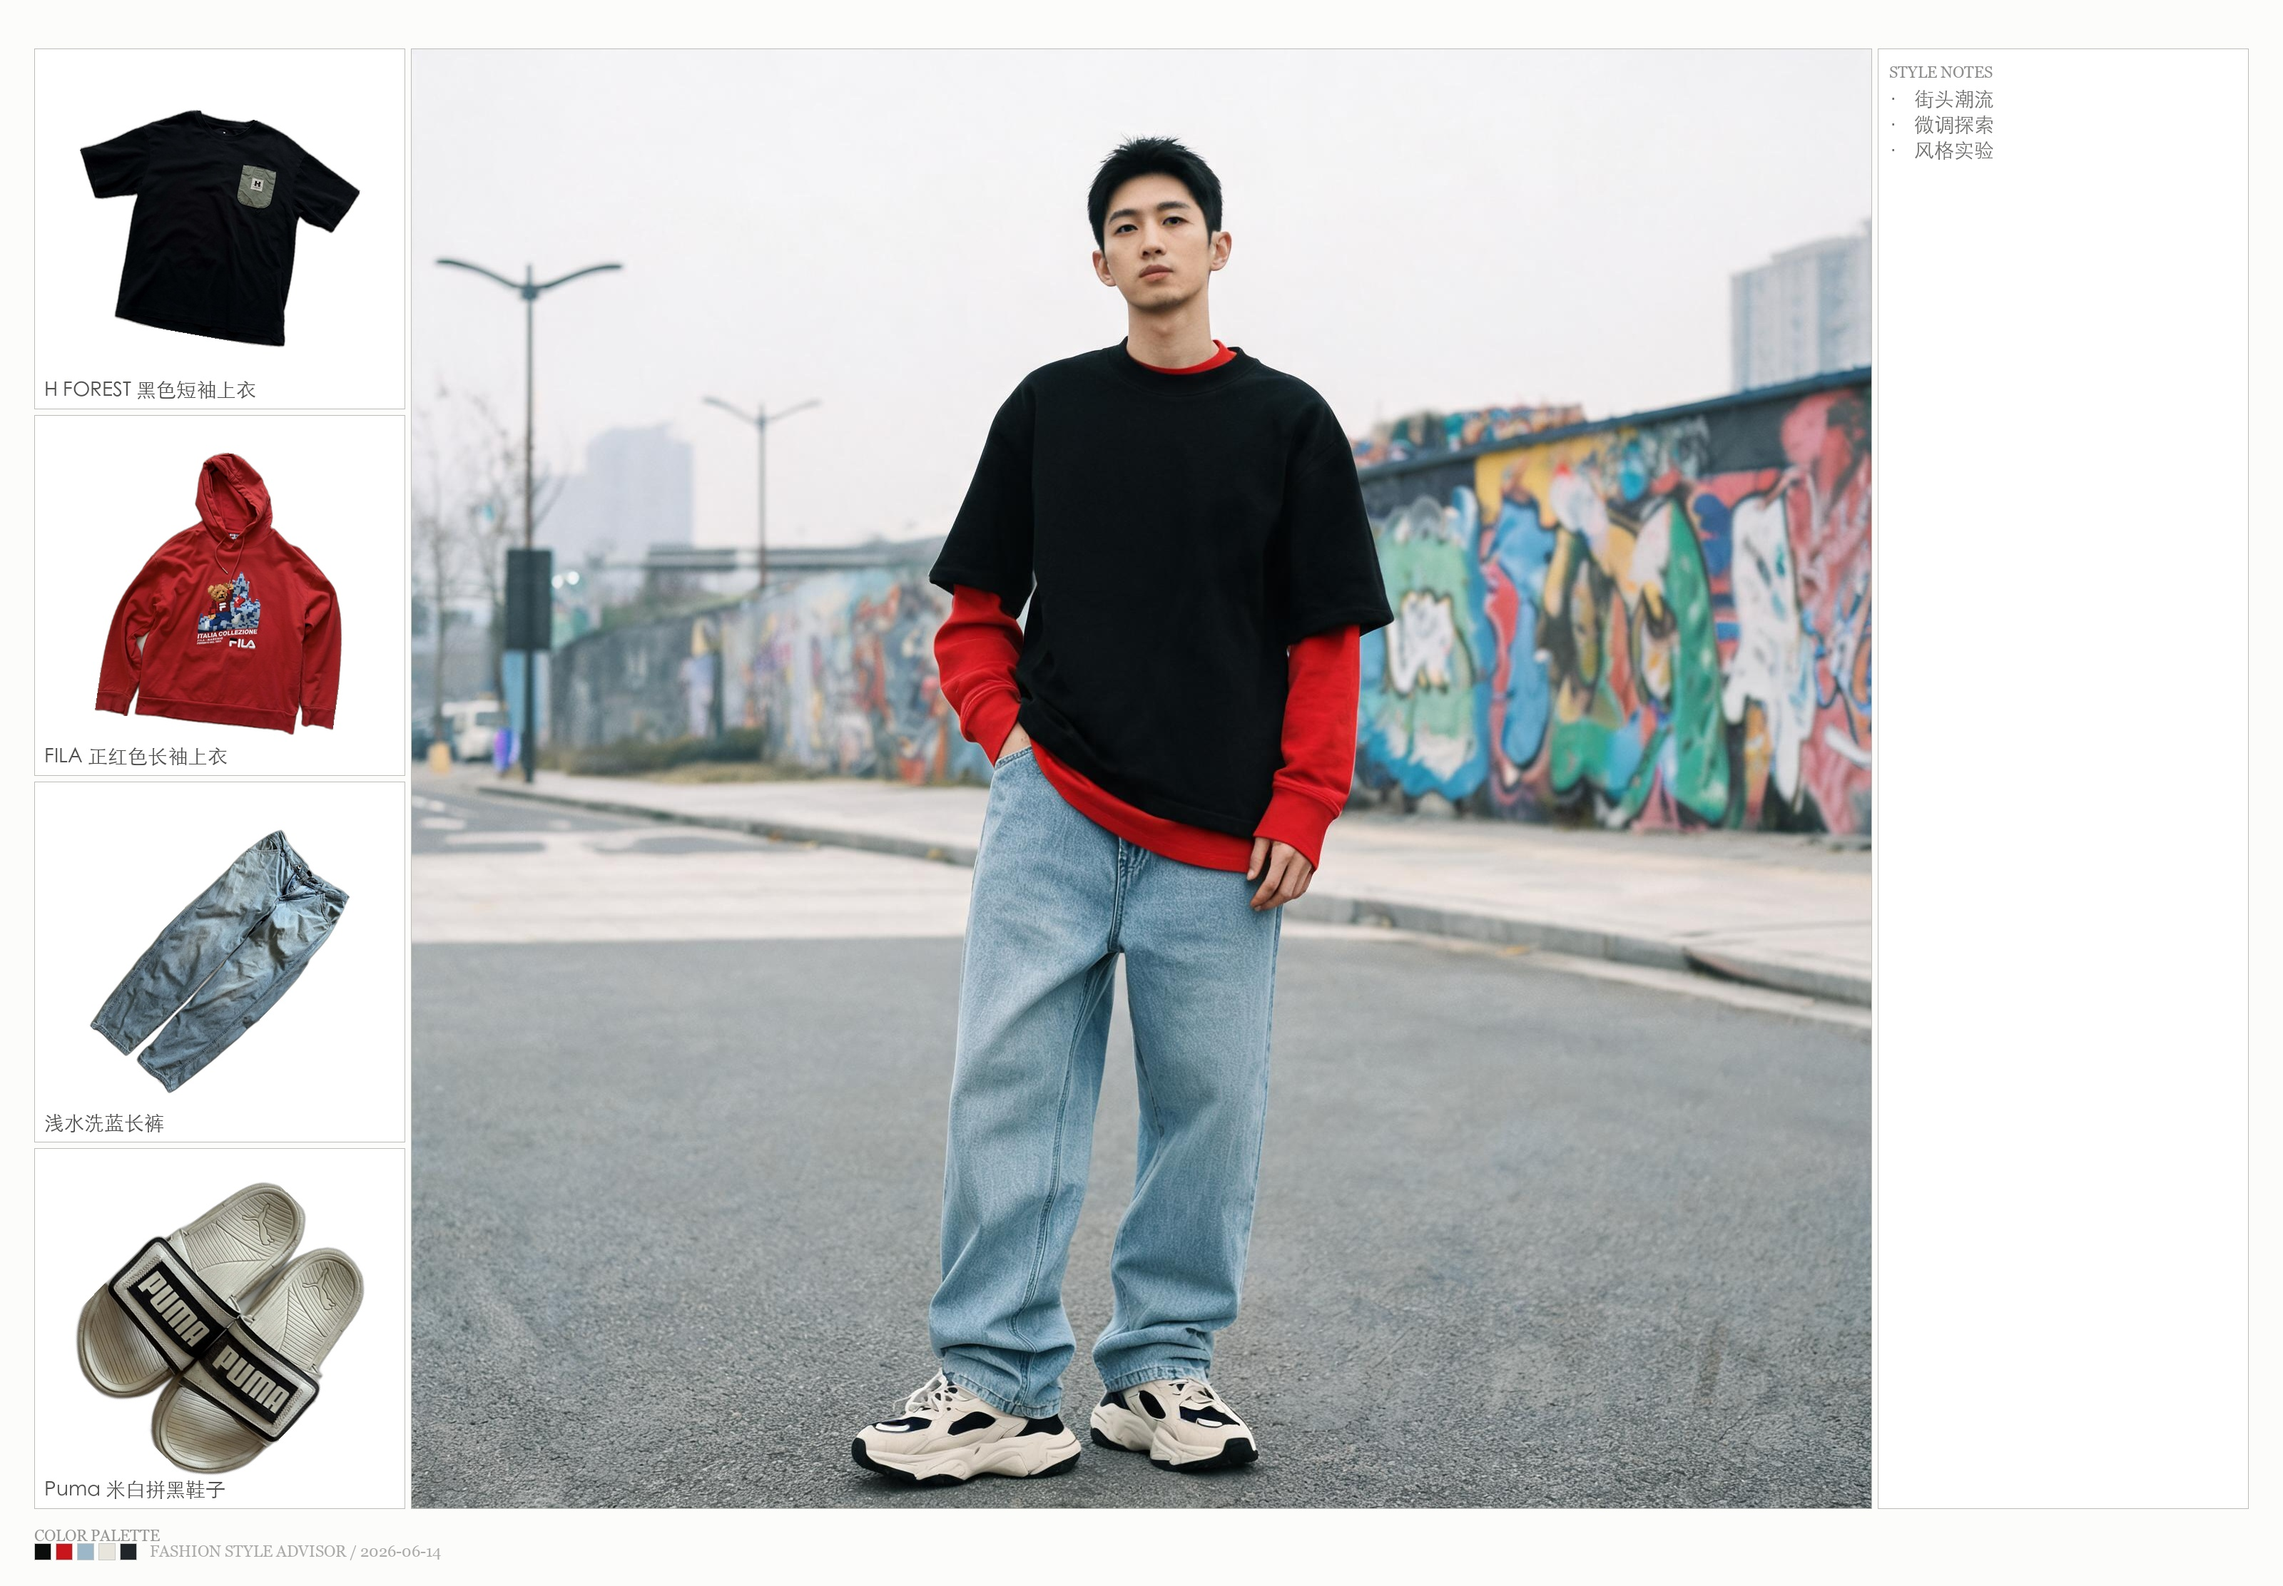
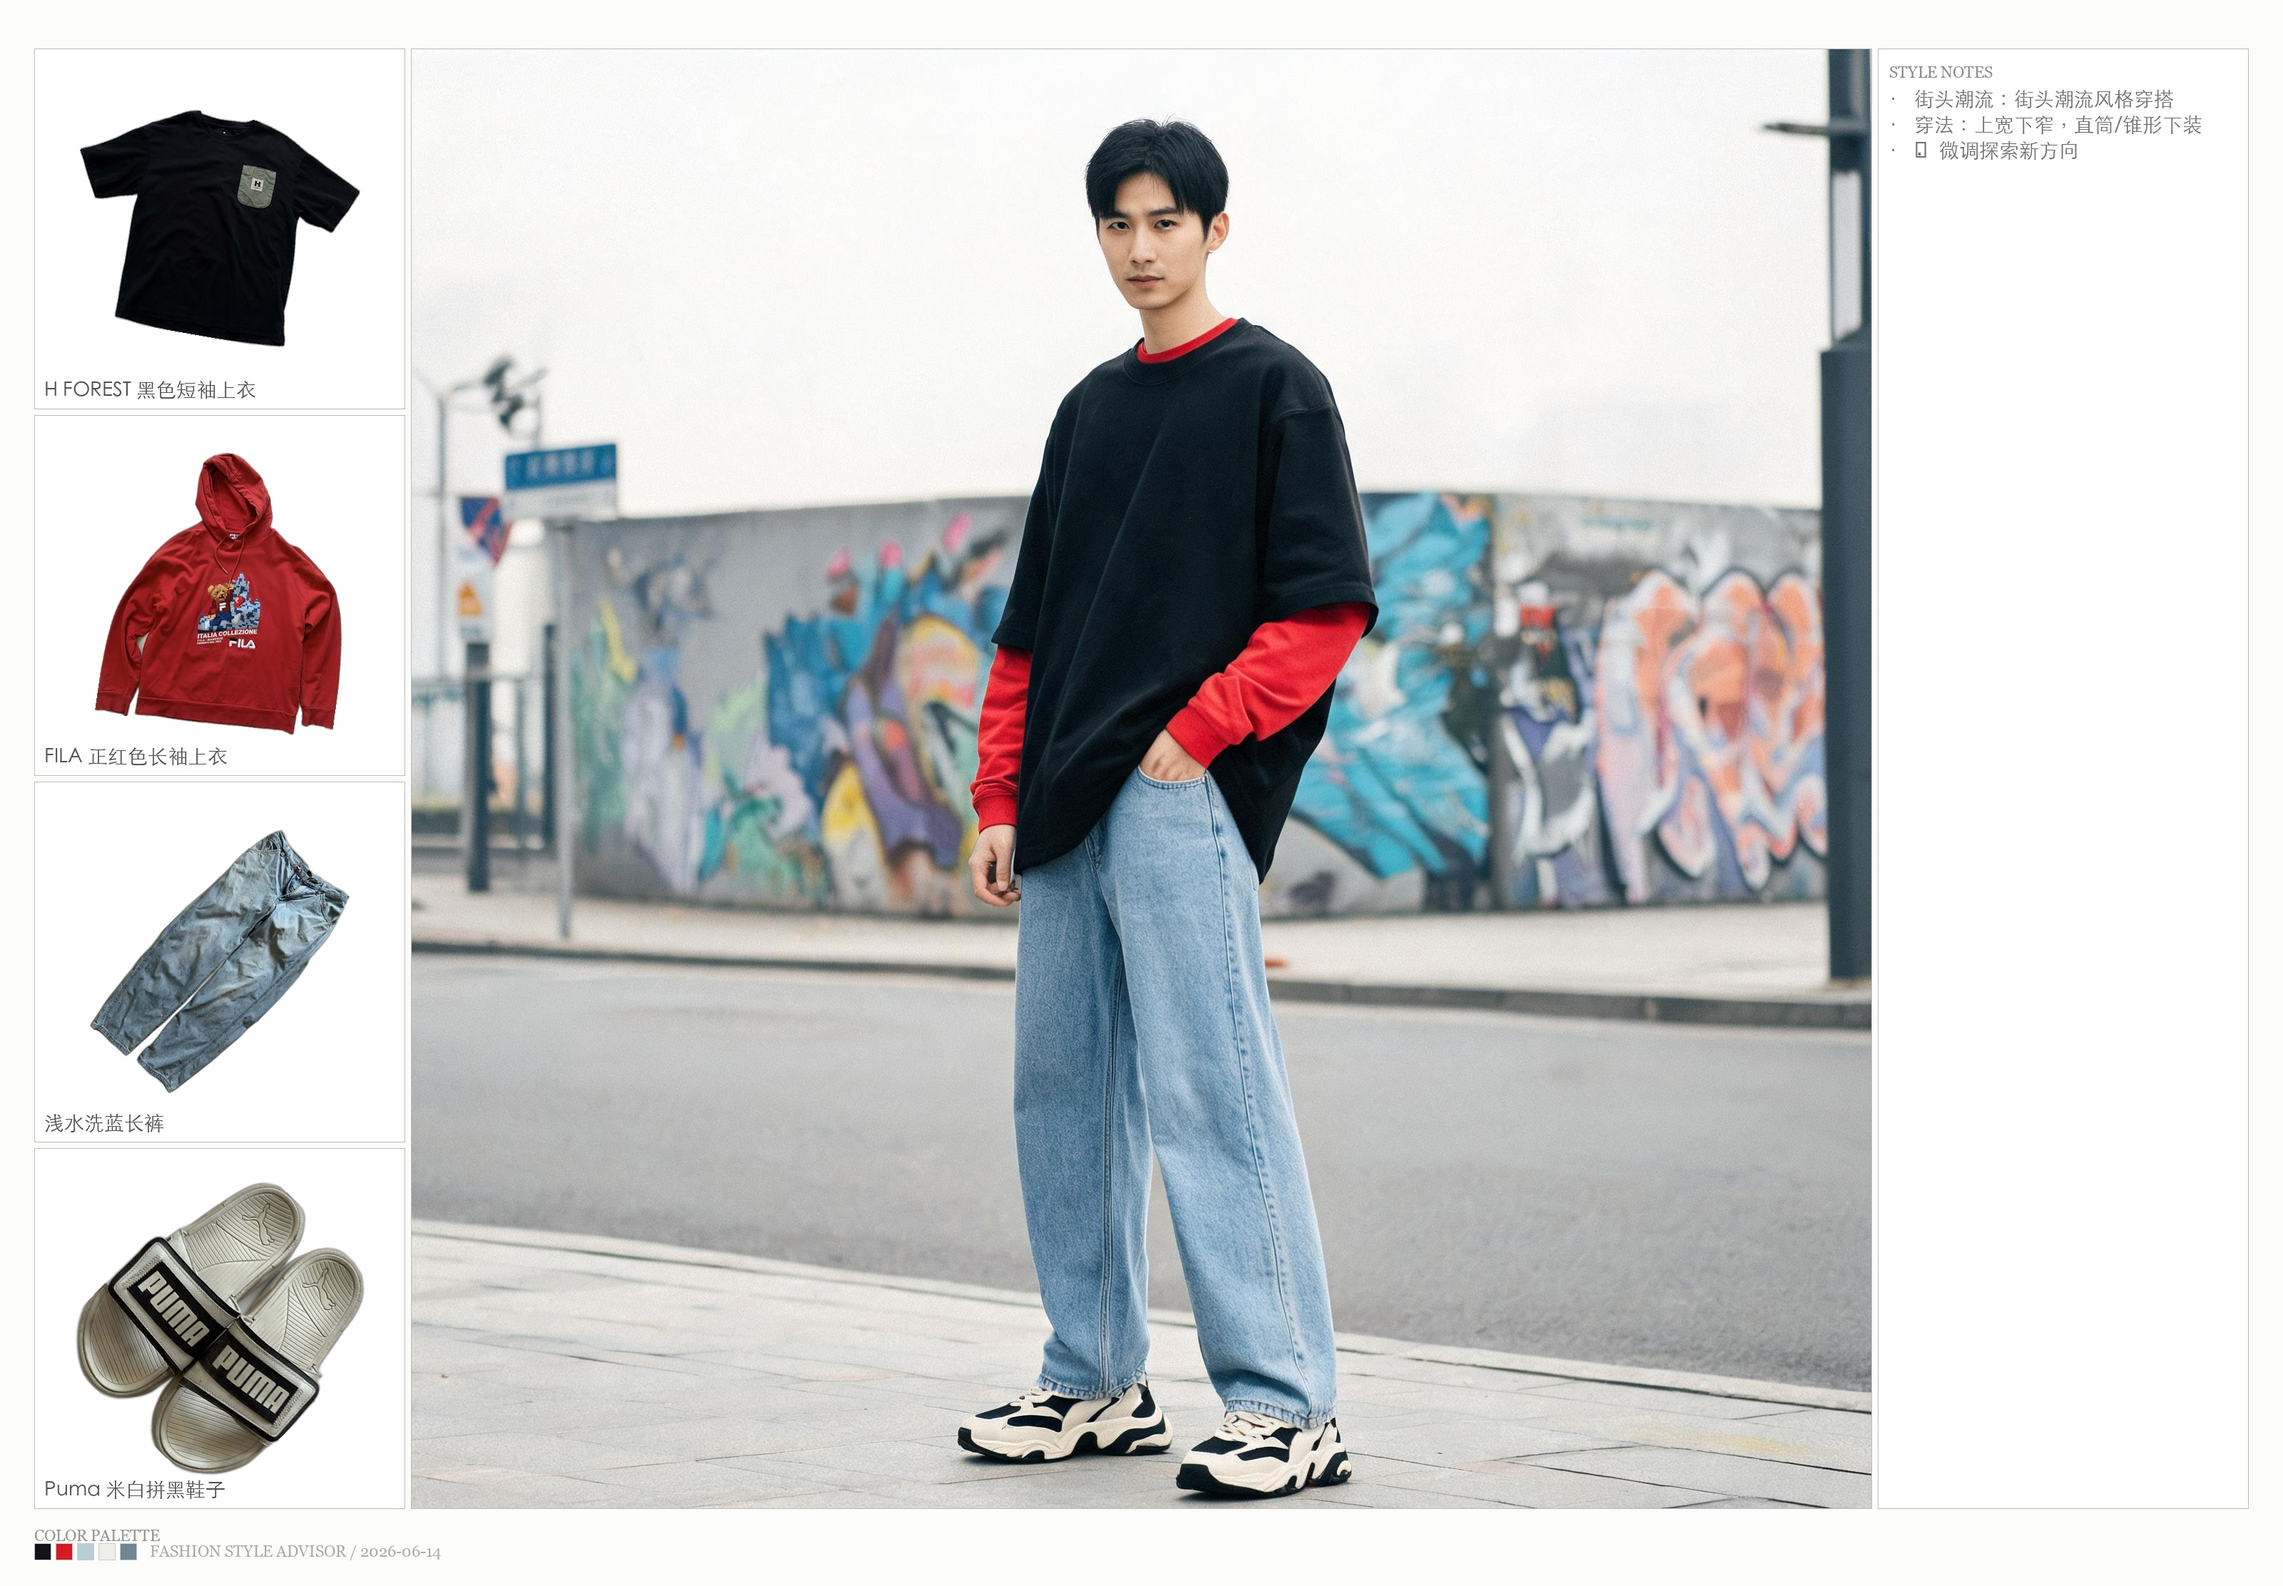
🧪 B线探索: 街头潮流 (2026-06-14)

diff --git a/tools/composite_v2.py b/tools/composite_v2.py
@@ -107,50 +107,81 @@ def find_img(dd,item):
         if os.path.exists(p): return p
 
 def parse_style_info(outfit_dir):
-    """从outfit.md提取风格关键词"""
+    """从outfit.md提取风格笔记（每行一条，用于 STYLE NOTES）"""
     md=os.path.join(outfit_dir,'outfit.md')
     if not os.path.exists(md): return []
     with open(md,encoding='utf-8') as f: text=f.read()
-    keywords=[]
+    lines=text.split('\n')
+    notes=[]
 
-    # 策略1：优先匹配 "## 风格关键词" 小节内容
-    in_kw_section = False
-    for line in text.split('\n'):
-        if '风格关键词' in line:
-            in_kw_section = True
-            # 同行冒号后的内容
-            m = re.search(r'[：:]\s*(.+)', line)
-            if m:
-                for kw in re.split(r'[、,，/]', m.group(1)):
-                    kw = kw.strip().replace('**', '')
-                    if kw and len(kw) < 20:
-                        keywords.append(kw)
-            continue
-        if in_kw_section:
-            if line.strip().startswith('##') or line.strip().startswith('---'):
-                break
-            s = line.strip().lstrip('- ').strip()
-            if s:
-                for kw in re.split(r'[、,，/]', s):
-                    kw = kw.strip().replace('**', '')
-                    if kw and len(kw) < 20:
-                        keywords.append(kw)
-
-    # 策略2：回退——从 "风格" 元数据行提取（去括号）
-    if not keywords:
-        for line in text.split('\n'):
-            if '风格' in line and '风格关键词' not in line and '风格故事' not in line:
+    # 策略1：读取 "## 风格笔记" 或 "## 风格关键词" 小节（每行一条笔记）
+    for section_tag in ['风格笔记', '风格关键词']:
+        in_section = False
+        for line in lines:
+            if section_tag in line:
+                in_section = True
+                # 同行冒号后的内容作为第一条
                 m = re.search(r'[：:]\s*(.+)', line)
                 if m:
-                    val = m.group(1)
-                    val = re.sub(r'[（(][^）)]*[）)]', '', val).strip()
-                    for kw in re.split(r'[、,，/]', val):
-                        kw = kw.strip().replace('**', '')
-                        if kw and len(kw) < 20:
-                            keywords.append(kw)
+                    v = m.group(1).strip().replace('**', '')
+                    if v and len(v) <= 30:
+                        notes.append(v)
+                continue
+            if in_section:
+                if line.strip().startswith('##') or line.strip().startswith('---'):
                     break
+                s = line.strip().lstrip('- ').strip()
+                if s and len(s) <= 30:
+                    notes.append(s)
+        if notes:
+            return notes[:5]
 
-    return keywords[:5]
+    # 策略2：回退——从元数据组装
+    # 提取风格名
+    style_name = ''
+    for line in lines:
+        if '风格' in line and '关键词' not in line and '故事' not in line and '笔记' not in line:
+            m = re.search(r'[：:]\s*(.+)', line)
+            if m:
+                style_name = re.sub(r'[（(][^）)]*[）)]', '', m.group(1)).strip()
+                break
+
+    # 提取天气/场景
+    weather = ''
+    occasion = ''
+    for line in lines:
+        if '天气' in line:
+            m = re.search(r'[：:]\s*(.+)', line)
+            if m: weather = m.group(1).strip()[:20]
+        if '场景' in line or '场合' in line:
+            m = re.search(r'[：:]\s*(.+)', line)
+            if m: occasion = m.group(1).strip()[:20]
+
+    if style_name:
+        notes.append(f'{style_name}风格')
+    if weather:
+        notes.append(f'适合{weather}')
+    if occasion:
+        notes.append(f'{occasion}穿搭')
+
+    # 从单品表格提取关键单品名
+    item_names = []
+    in_table = False
+    for line in lines:
+        if '单品清单' in line:
+            in_table = True; continue
+        if in_table and (line.startswith('##') or line.startswith('---')):
+            break
+        if in_table and line.startswith('|') and '---' not in line:
+            cells = [c.strip().replace('**', '') for c in line.split('|')]
+            if len(cells) >= 4:
+                name = cells[3]
+                if name and name not in ('单品', '名称', '') and len(name) < 15:
+                    item_names.append(name)
+    if item_names:
+        notes.append(f'核心单品：{"、".join(item_names[:3])}')
+
+    return notes[:5]
 
 def composite(ai_path,items,output_path):
     ai_img=Image.open(ai_path).convert('RGB'); ai_w,ai_h=ai_img.size

diff --git a/tools/style_lab.py b/tools/style_lab.py
@@ -1370,12 +1370,33 @@ def prepare_bline_outfit(anchor_item, companions, direction, weather_temp=30, we
             f"| {cat} | **{cid}** | {item_name} | {appeal['visual_signature'][:30]}{marker} |"
         )
 
-    # 风格关键词（composite_v2 parse_style_info 从 ## 风格关键词 小节读取）
-    style_tags = f'{style_name}'
-    if boldness == 'leap':
-        style_tags += ', 大胆跨界, 风格实验'
+    # 风格笔记（composite_v2 parse_style_info 读取每行作为 STYLE NOTES）
+    # 从探索叙事中提取关键信息
+    encyc = load_encyclopedia(style_id) if style_id else None
+    style_desc = encyc.get('one_liner', '') if encyc else ''
+    if not style_desc:
+        style_desc = f'{style_name}风格穿搭'
+
+    anchor_color = anchor_item.get('color', {}).get('hue_name', '')
+    anchor_cat = anchor_item.get('category', '')
+    claude_tip = anchor_item.get('meta', {}).get('claude_fit_comment', '')
+    if len(claude_tip) > 30:
+        claude_tip = claude_tip[:28] + '..'
+
+    silhouette = anchor_item.get('silhouette', {})
+    if silhouette.get('fit') == '宽松':
+        wear_tip = '上宽下窄，直筒/锥形下装'
+    elif silhouette.get('fit') == '合身':
+        wear_tip = '外搭宽松层次，制造对比'
     else:
-        style_tags += ', 微调探索, 风格实验'
+        wear_tip = '以锚点单品为视觉焦点'
+
+    style_notes_lines = [
+        f'- {style_name}：{style_desc[:26]}',
+        f'- 锚点 {anchor_id}：{claude_tip}' if claude_tip else f'- 锚点：{anchor_color}{anchor_cat}',
+        f'- 穿法：{wear_tip}',
+        f'- {bold_tag} {"大胆跨界尝试" if boldness == "leap" else "微调探索新方向"}',
+    ]
 
     outfit_md = f"""# {style_name} B线探索穿搭
 
@@ -1393,9 +1414,9 @@ def prepare_bline_outfit(anchor_item, companions, direction, weather_temp=30, we
 
 {generate_exploration_narrative(direction, anchor_item, companions)}
 
-## 风格关键词
+## 风格笔记
 
-{style_tags}
+{chr(10).join(style_notes_lines)}
 """
     with open(os.path.join(outfit_dir, 'outfit.md'), 'w', encoding='utf-8') as f:
         f.write(outfit_md)

diff --git a/outfits/2026-06-14_街头潮流B线探索/outfit.md b/outfits/2026-06-14_街头潮流B线探索/outfit.md
@@ -31,6 +31,9 @@
 
 💬 **穿法建议**：锚点单品偏宽松，下装可选直筒/锥形保持上下平衡
 
-## 风格关键词
+## 风格笔记
 
-街头潮流, 微调探索, 风格实验
+- 街头潮流：街头潮流风格穿搭
+- 锚点 LS-001：宽松连帽卫衣可大幅增加上半身体量感和肩宽,适合偏瘦体型,..
+- 穿法：上宽下窄，直筒/锥形下装
+- 🧪 微调探索新方向
